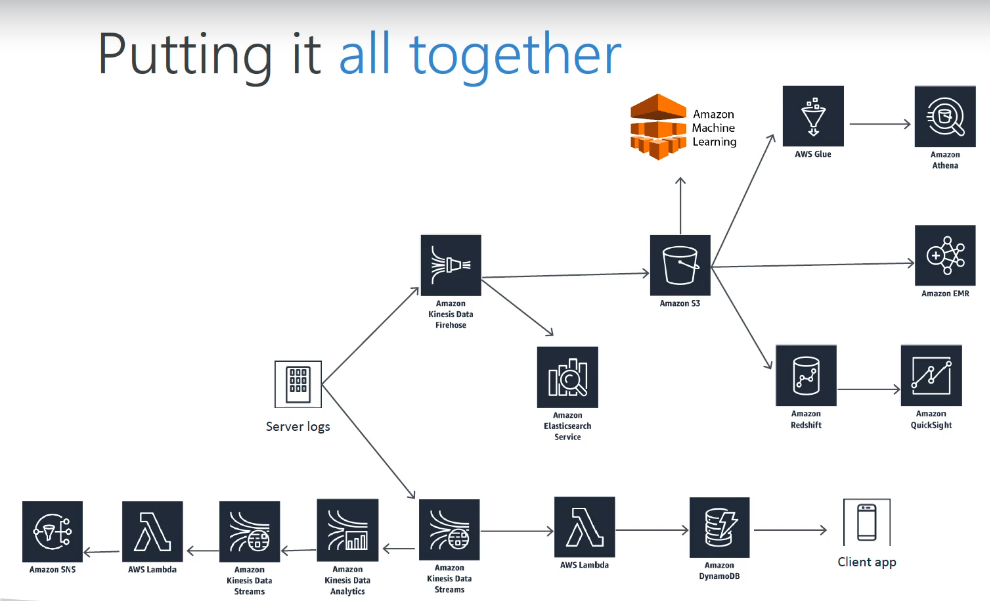
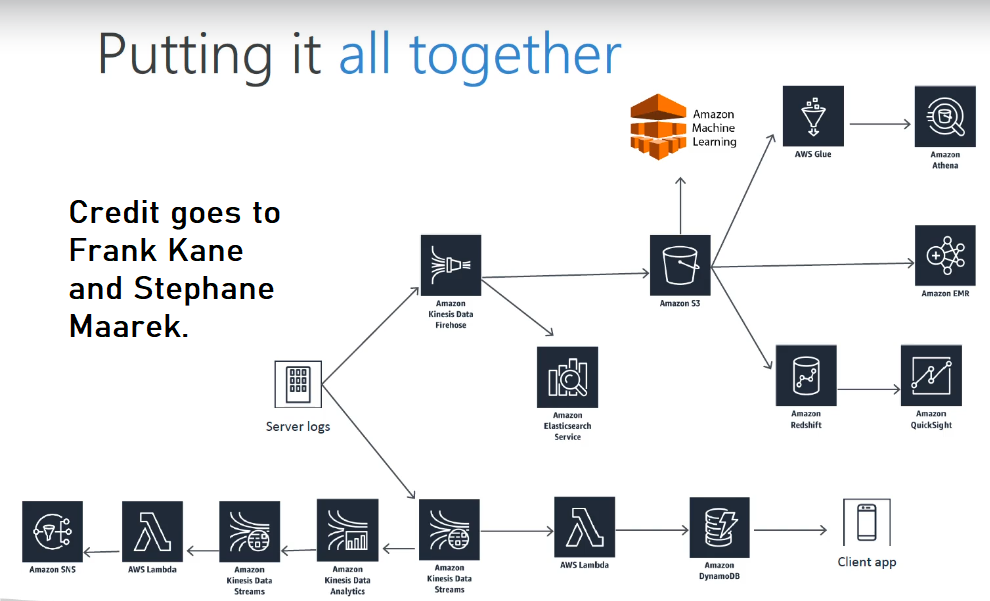
added credit

Changed region(s): [[0.0606, 0.3295, 0.303, 0.5691]]

diff --git a/README.md b/README.md
@@ -1,10 +1,10 @@
 # CadabraOrders
 
-My attempt to recreate the project exercises from Frank Kane's (Sundog Education) and Stephane Maarek's (DataCumulus) [AWS Certified Data Analytics Specialty course on Udemy](https://www.udemy.com/course/aws-big-data/), but in Terraform. 
+My attempt to recreate the project exercises from Frank Kane's (Sundog Education) and Stephane Maarek's (DataCumulus) [AWS Certified Data Analytics Specialty course on Udemy](https://www.udemy.com/course/aws-big-data/), but with Terraform. 
 
 I passed tha AWS Data Analytics Speciality certificate exam back in July 2020. I wrote an [article on Medium](https://medium.com/@yared94/how-i-passed-the-aws-data-analytics-specialty-certification-46a6c838a80) and in it I higlighted the course as one that helped me prepare for the exam. It took me at least 60%-70% of the way.
 
 ## Overview
 ![Cadabra Orders Overview](Overview.png)
 
-(Picture from course)
+(Picture from course referenced to above.)
